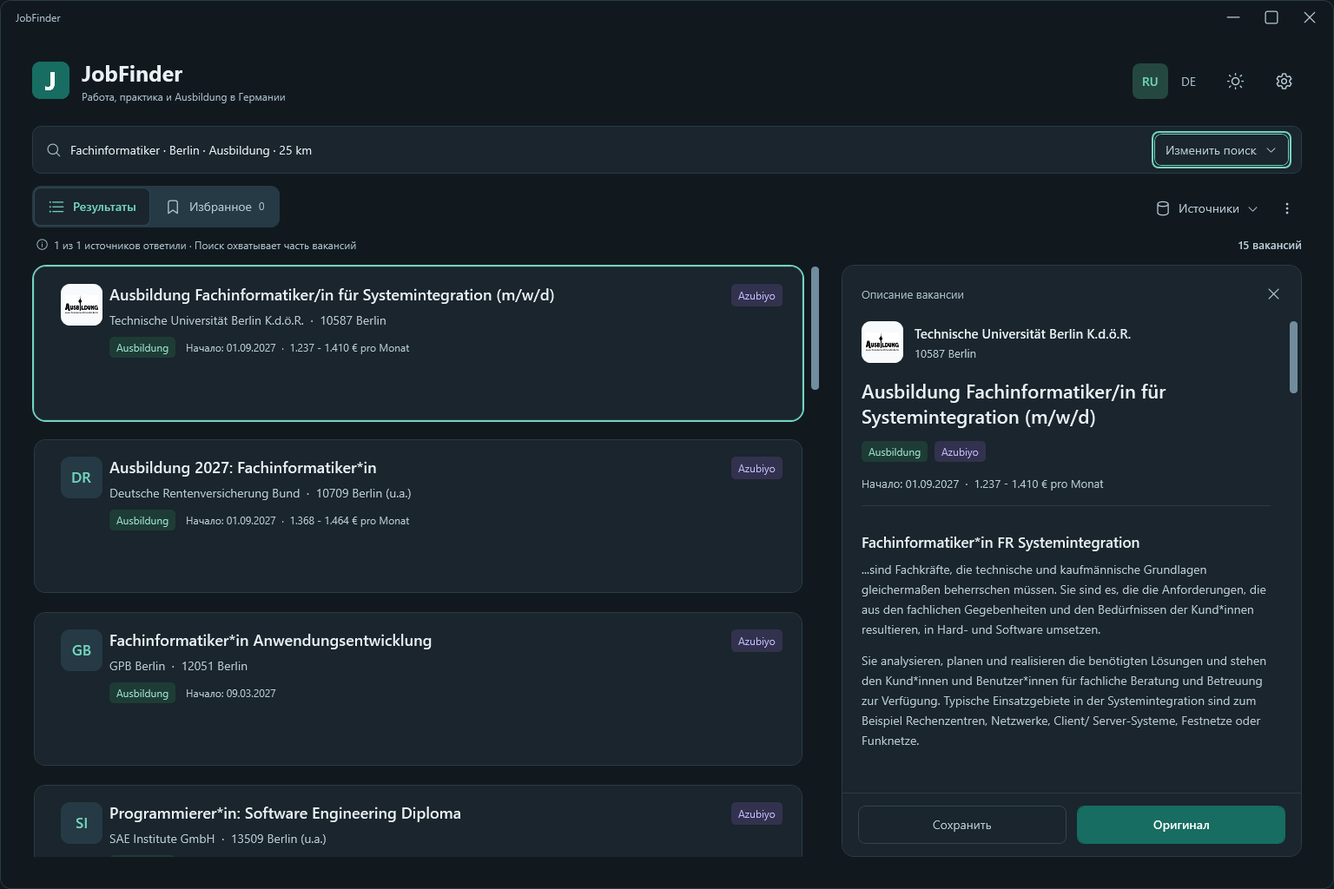
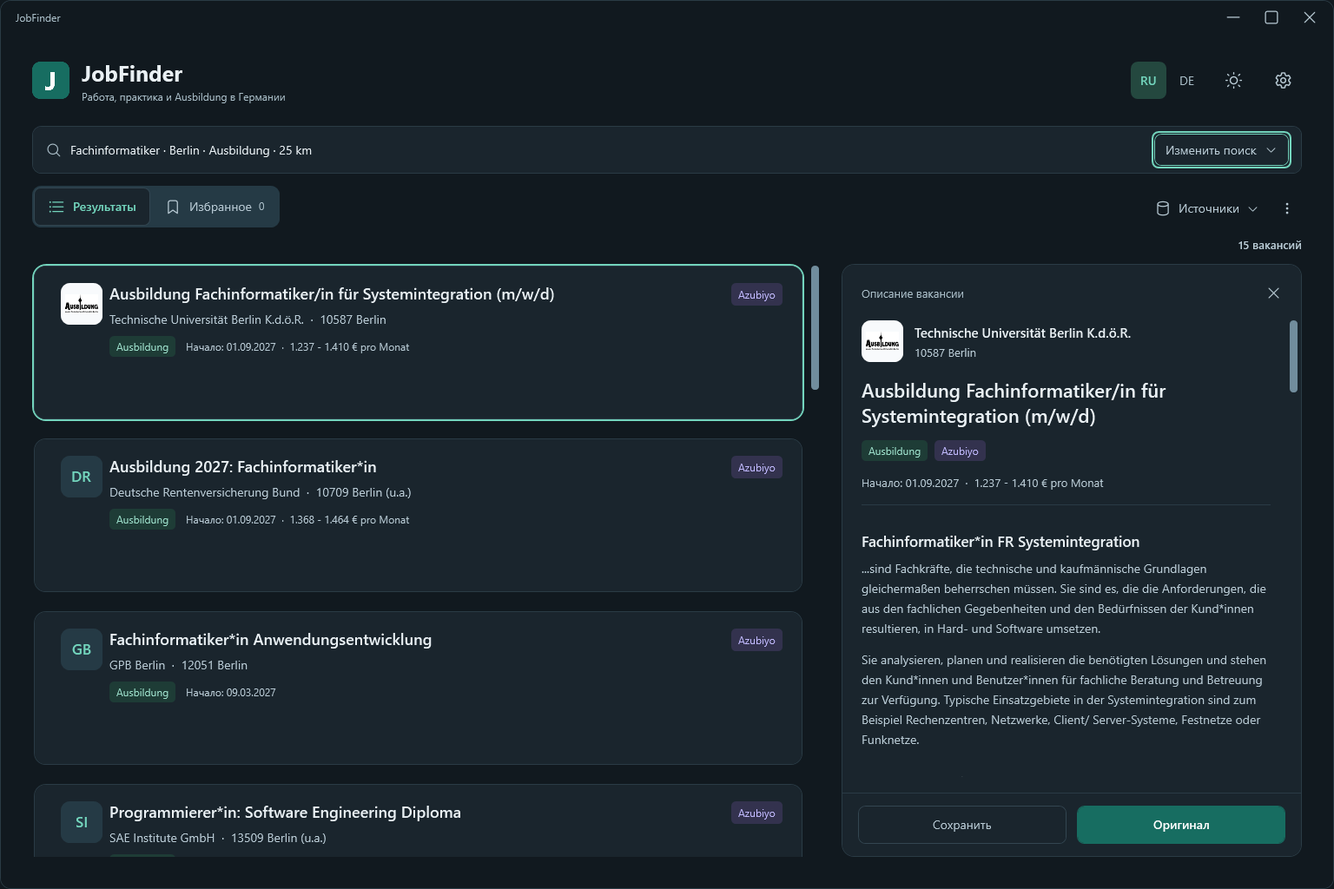
Move source warnings into settings with a yellow attention indicator

diff --git a/JobFinder/SourceDirectory.xaml b/JobFinder/SourceDirectory.xaml
@@ -1,16 +1,22 @@
 <UserControl x:Class="JobFinder.SourceDirectory" xmlns="http://schemas.microsoft.com/winfx/2006/xaml/presentation" xmlns:x="http://schemas.microsoft.com/winfx/2006/xaml" xmlns:local="clr-namespace:JobFinder">
  <Grid Margin="22"><Grid.RowDefinitions><RowDefinition Height="Auto"/><RowDefinition Height="*"/><RowDefinition Height="Auto"/></Grid.RowDefinitions>
-  <StackPanel>
+  <StackPanel Visibility="{Binding ShowCatalog, Converter={StaticResource Visible}}">
    <DockPanel Margin="0,0,0,14"><StackPanel DockPanel.Dock="Right" Margin="16,0,0,0"><TextBlock Text="{Binding Ui[Radius]}" FontSize="12" Margin="0,0,0,6"/><ComboBox x:Name="RadiusChoice" ItemsSource="{Binding App.Radii}" SelectedItem="{Binding App.Radius, Mode=TwoWay}" MinWidth="110"/></StackPanel><StackPanel><TextBlock Text="{Binding Ui[FindSource]}" FontSize="12" Margin="0,0,0,6"/><Grid><TextBox x:Name="SourceSearch" Text="{Binding Search, UpdateSourceTrigger=PropertyChanged}" Tag="{Binding Ui[SourceSearchPlaceholder]}" Padding="36,10,34,10" MaxLength="100" AutomationProperties.Name="{Binding Ui[FindSource]}"/><local:FluentIcon Kind="search" Foreground="{DynamicResource TextMuted}" Margin="11,0,0,0" HorizontalAlignment="Left" VerticalAlignment="Center"/><Button Click="ClearSearch" Style="{StaticResource Quiet}" Padding="6" HorizontalAlignment="Right" Margin="0,0,4,0" ToolTip="{Binding Ui[ClearSourceSearch]}" AutomationProperties.Name="{Binding Ui[ClearSourceSearch]}"><local:FluentIcon Kind="dismiss" Width="16" Height="16"/></Button></Grid></StackPanel></DockPanel>
    <WrapPanel Margin="0,0,0,8"><RadioButton Content="{Binding Ui[All]}" IsChecked="{Binding AllKinds}" GroupName="SourceKind" Style="{StaticResource Segment}"/><RadioButton Content="{Binding Ui[Job]}" IsChecked="{Binding Work}" GroupName="SourceKind" Style="{StaticResource Segment}"/><RadioButton Content="{Binding Ui[InternshipShort]}" IsChecked="{Binding Internship}" GroupName="SourceKind" Style="{StaticResource Segment}"/><RadioButton Content="{Binding Ui[Apprenticeship]}" IsChecked="{Binding Training}" GroupName="SourceKind" Style="{StaticResource Segment}"/></WrapPanel>
    <WrapPanel Margin="0,0,0,10"><RadioButton Content="{Binding Ui[AllSources]}" IsChecked="{Binding Both}" GroupName="SourceMode" Style="{StaticResource Segment}"/><RadioButton Content="{Binding Ui[FeedMode]}" IsChecked="{Binding FeedOnly}" GroupName="SourceMode" Style="{StaticResource Segment}"/><RadioButton Content="{Binding Ui[WebsiteMode]}" IsChecked="{Binding PortalOnly}" GroupName="SourceMode" Style="{StaticResource Segment}"/></WrapPanel>
    <TextBlock Text="{Binding Summary}" Foreground="{DynamicResource TextMuted}" FontSize="12" TextWrapping="Wrap" Margin="0,0,0,12"/>
   </StackPanel>
+  <StackPanel x:Name="StatusOverview" Visibility="{Binding IsStatusView, Converter={StaticResource Visible}}" Margin="0,0,0,18">
+   <TextBlock Text="{Binding App.SourceStatusTitle}" FontSize="20" FontWeight="SemiBold" Foreground="{Binding App.SourceTone}" TextWrapping="Wrap"/>
+   <TextBlock Text="{Binding App.SourceBrief}" Foreground="{DynamicResource TextBody}" FontSize="12" TextWrapping="Wrap" Margin="0,9,0,0" Visibility="{Binding App.HasSourceStatus, Converter={StaticResource Visible}}"/>
+   <TextBlock Text="{Binding Ui[FeedLimited]}" Foreground="{DynamicResource TextMuted}" FontSize="12" TextWrapping="Wrap" Margin="0,6,0,0" Visibility="{Binding App.HasSourceStatus, Converter={StaticResource Visible}}"/>
+   <TextBlock Text="{Binding Ui[SourceSettingsHint]}" Foreground="{DynamicResource WarningText}" FontSize="12" TextWrapping="Wrap" Margin="0,9,0,0" Visibility="{Binding App.HasSearchChanges, Converter={StaticResource Visible}}"/>
+  </StackPanel>
   <ScrollViewer x:Name="DirectoryScroll" Grid.Row="1" VerticalScrollBarVisibility="Auto" HorizontalScrollBarVisibility="Disabled"><StackPanel Margin="0,0,8,0">
-   <StackPanel Visibility="{Binding HasFeeds, Converter={StaticResource Visible}}"><WrapPanel Margin="0,2,0,8"><TextBlock Text="{Binding Ui[Sources]}" FontSize="17" FontWeight="SemiBold" Margin="0,4,18,0" ToolTip="{Binding Ui[SourcesHint]}"/><Button Content="{Binding Ui[EnableVisibleSources]}" Command="{Binding EnableVisible}" Style="{StaticResource Quiet}" FontSize="12"/><Button Content="{Binding Ui[DisableVisibleSources]}" Command="{Binding DisableVisible}" Style="{StaticResource Quiet}" FontSize="12" Margin="8,0,0,0"/></WrapPanel><ItemsControl x:Name="FeedList" ItemsSource="{Binding Feeds}"/></StackPanel>
+   <StackPanel Visibility="{Binding HasFeeds, Converter={StaticResource Visible}}"><WrapPanel Margin="0,2,0,8" Visibility="{Binding ShowCatalog, Converter={StaticResource Visible}}"><TextBlock Text="{Binding Ui[Sources]}" FontSize="17" FontWeight="SemiBold" Margin="0,4,18,0" ToolTip="{Binding Ui[SourcesHint]}"/><Button Content="{Binding Ui[EnableVisibleSources]}" Command="{Binding EnableVisible}" Style="{StaticResource Quiet}" FontSize="12"/><Button Content="{Binding Ui[DisableVisibleSources]}" Command="{Binding DisableVisible}" Style="{StaticResource Quiet}" FontSize="12" Margin="8,0,0,0"/></WrapPanel><ItemsControl x:Name="FeedList" ItemsSource="{Binding Feeds}"/></StackPanel>
    <StackPanel Visibility="{Binding HasPortals, Converter={StaticResource Visible}}"><TextBlock Text="{Binding Ui[WebsiteMode]}" FontSize="17" FontWeight="SemiBold" Margin="0,20,0,5"/><TextBlock Text="{Binding Ui[ExternalHint]}" Foreground="{DynamicResource TextMuted}" FontSize="12" TextWrapping="Wrap" Margin="0,0,0,7"/><ItemsControl ItemsSource="{Binding Portals}"><ItemsControl.ItemTemplate><DataTemplate><Border Padding="0,12" BorderBrush="{DynamicResource BorderSoft}" BorderThickness="0,0,0,1"><Grid><Grid.ColumnDefinitions><ColumnDefinition Width="*"/><ColumnDefinition Width="Auto"/></Grid.ColumnDefinitions><StackPanel Margin="0,0,14,0"><TextBlock Text="{Binding Name}" FontWeight="SemiBold"/><TextBlock Text="{Binding Categories}" Foreground="{DynamicResource Accent}" FontSize="12" Margin="0,4,0,0" TextWrapping="Wrap"/><TextBlock Text="{Binding Reason}" Foreground="{DynamicResource TextMuted}" FontSize="12" Margin="0,5,0,0" TextWrapping="Wrap"/></StackPanel><Button Grid.Column="1" Command="{Binding DataContext.PortalCommand, RelativeSource={RelativeSource AncestorType=Window}}" CommandParameter="{Binding Id}" ToolTip="{Binding DataContext.Ui[External], RelativeSource={RelativeSource AncestorType=Window}}" AutomationProperties.Name="{Binding Name}" Padding="10" VerticalAlignment="Center"><local:FluentIcon Kind="open"/></Button></Grid></Border></DataTemplate></ItemsControl.ItemTemplate></ItemsControl></StackPanel>
-   <TextBlock Text="{Binding Ui[NoSourceMatch]}" Foreground="{DynamicResource TextMuted}" FontSize="16" TextWrapping="Wrap" Margin="0,24,0,0" Visibility="{Binding Empty, Converter={StaticResource Visible}}"/>
+   <StackPanel Visibility="{Binding ShowCatalog, Converter={StaticResource Visible}}"><TextBlock Text="{Binding Ui[NoSourceMatch]}" Foreground="{DynamicResource TextMuted}" FontSize="16" TextWrapping="Wrap" Margin="0,24,0,0" Visibility="{Binding Empty, Converter={StaticResource Visible}}"/></StackPanel>
   </StackPanel></ScrollViewer>
-  <DockPanel Grid.Row="2" Margin="0,14,0,0"><Button DockPanel.Dock="Right" Content="{Binding Ui[Close]}" Click="CloseDialog" Padding="18,9" Margin="12,0,0,0"/><TextBlock Text="{Binding Ui[SourceSettingsHint]}" Foreground="{DynamicResource TextMuted}" FontSize="12" TextWrapping="Wrap" VerticalAlignment="Center"/></DockPanel>
+  <DockPanel Grid.Row="2" Margin="0,14,0,0"><Button x:Name="CloseButton" DockPanel.Dock="Right" Content="{Binding Ui[Close]}" Click="CloseDialog" Padding="18,9" Margin="12,0,0,0" IsCancel="True"/><TextBlock Text="{Binding Ui[SourceSettingsHint]}" Foreground="{DynamicResource TextMuted}" FontSize="12" TextWrapping="Wrap" VerticalAlignment="Center"/></DockPanel>
  </Grid>
 </UserControl>

diff --git a/JobFinder/MainWindow.xaml b/JobFinder/MainWindow.xaml
@@ -25,7 +25,7 @@
     <Button Content="RU" Command="{Binding LanguageCommand}" CommandParameter="ru" AutomationProperties.Name="Русский"><Button.Style><Style TargetType="Button" BasedOn="{StaticResource LanguageButton}"><Style.Triggers><DataTrigger Binding="{Binding Ui.IsRu}" Value="True"><Setter Property="Foreground" Value="{DynamicResource Accent}"/><Setter Property="FontWeight" Value="SemiBold"/><Setter Property="Background" Value="{DynamicResource Selected}"/></DataTrigger></Style.Triggers></Style></Button.Style></Button>
     <Button Content="DE" Command="{Binding LanguageCommand}" CommandParameter="de" AutomationProperties.Name="Deutsch"><Button.Style><Style TargetType="Button" BasedOn="{StaticResource LanguageButton}"><Style.Triggers><DataTrigger Binding="{Binding Ui.IsDe}" Value="True"><Setter Property="Foreground" Value="{DynamicResource Accent}"/><Setter Property="FontWeight" Value="SemiBold"/><Setter Property="Background" Value="{DynamicResource Selected}"/></DataTrigger></Style.Triggers></Style></Button.Style></Button>
     <Button x:Name="ThemeButton" Command="{Binding ThemeCommand}" Style="{StaticResource Quiet}" AutomationProperties.Name="{Binding ThemeLabel}" ToolTip="{Binding ThemeLabel}" Margin="12,0,0,0" Padding="9"><local:FluentIcon Kind="{Binding ThemeIcon}" Width="23" Height="23"/></Button>
-    <Button x:Name="SettingsButton" Click="OnAppMenu" Style="{StaticResource Quiet}" AutomationProperties.Name="{Binding Ui[MoreActions]}" ToolTip="{Binding Ui[MoreActions]}" Margin="15,0,0,0" Padding="9"><local:FluentIcon Kind="settings" Width="23" Height="23"/></Button>
+    <Button x:Name="SettingsButton" Click="OnAppMenu" Style="{StaticResource Quiet}" AutomationProperties.Name="{Binding SettingsLabel}" ToolTip="{Binding SettingsLabel}" Margin="15,0,0,0" Padding="9"><Grid Width="25" Height="25"><local:FluentIcon Kind="settings" Width="23" Height="23"/><Ellipse x:Name="SettingsWarning" Width="10" Height="10" Fill="{DynamicResource WarningDot}" Stroke="{DynamicResource AppBackground}" StrokeThickness="2" HorizontalAlignment="Right" VerticalAlignment="Top" Margin="0,-2,-3,0" IsHitTestVisible="False" Visibility="{Binding ShowSourceAttention, Converter={StaticResource Visible}}"/></Grid></Button>
    </StackPanel>
   </Grid>
   <Border x:Name="CompactSearchBar" Grid.Row="1" Background="{DynamicResource Surface}" BorderBrush="{DynamicResource BorderSoft}" BorderThickness="1" CornerRadius="10" Padding="14,8" Visibility="{Binding SearchCollapsed, Converter={StaticResource Visible}}">
@@ -70,12 +70,10 @@
     </StackPanel></Border>
    </DockPanel>
    <StackPanel x:Name="CoverageBand" Grid.Row="1" Margin="4,11,0,0">
-    <Grid><Grid.ColumnDefinitions><ColumnDefinition Width="*"/><ColumnDefinition Width="Auto"/></Grid.ColumnDefinitions><Grid.RowDefinitions><RowDefinition Height="Auto"/><RowDefinition Height="Auto"/></Grid.RowDefinitions>
+    <Grid><Grid.ColumnDefinitions><ColumnDefinition Width="*"/><ColumnDefinition Width="Auto"/></Grid.ColumnDefinitions>
      <TextBlock Grid.Column="1" Text="{Binding CountLabel}" FontWeight="SemiBold" FontSize="13" Foreground="{DynamicResource TextBody}"/>
      <TextBlock Text="{Binding ActiveLabel}" FontSize="12" Foreground="{DynamicResource TextMuted}" TextWrapping="Wrap" Margin="0,0,12,0"><TextBlock.Style><Style TargetType="TextBlock"><Style.Triggers><DataTrigger Binding="{Binding IsCompact}" Value="True"><Setter Property="Visibility" Value="Collapsed"/></DataTrigger><DataTrigger Binding="{Binding SearchCollapsed}" Value="True"><Setter Property="Visibility" Value="Collapsed"/></DataTrigger></Style.Triggers></Style></TextBlock.Style></TextBlock>
-     <Button Click="OnSources" Foreground="{Binding SourceTone}" ToolTip="{Binding Ui[FeedLimited]}" Visibility="{Binding ShowLimit, Converter={StaticResource Visible}}" HorizontalAlignment="Left" Margin="0,0,12,0"><Button.Style><Style TargetType="Button" BasedOn="{StaticResource Quiet}"><Setter Property="Grid.Row" Value="1"/><Setter Property="Padding" Value="0,5,0,0"/><Setter Property="MinHeight" Value="23"/><Style.Triggers><DataTrigger Binding="{Binding IsCompact}" Value="True"><Setter Property="Grid.Row" Value="0"/><Setter Property="Padding" Value="0"/><Setter Property="MinHeight" Value="18"/></DataTrigger><DataTrigger Binding="{Binding SearchCollapsed}" Value="True"><Setter Property="Grid.Row" Value="0"/><Setter Property="Padding" Value="0"/><Setter Property="MinHeight" Value="18"/></DataTrigger></Style.Triggers></Style></Button.Style><StackPanel Orientation="Horizontal"><local:FluentIcon Kind="info" Width="15" Height="15" Margin="0,0,6,0"/><TextBlock Text="{Binding SourceBrief}" FontSize="12" TextWrapping="Wrap"/></StackPanel></Button>
     </Grid>
-    <Border Background="{DynamicResource WarningBackground}" CornerRadius="7" Padding="10,6" Margin="0,7,0,0" Visibility="{Binding ShowSourceAttention, Converter={StaticResource Visible}}"><Button Click="OnSources" Style="{StaticResource Quiet}" HorizontalAlignment="Left" Padding="0" MinHeight="22" Foreground="{DynamicResource WarningText}"><TextBlock Text="{Binding SourceAttentionLabel}" TextWrapping="Wrap" FontSize="12"/></Button></Border>
    </StackPanel>
   </Grid>
   <Grid x:Name="FeedBody" Grid.Row="4">

diff --git a/JobFinder/Themes/Dark.xaml b/JobFinder/Themes/Dark.xaml
@@ -17,6 +17,7 @@
  <SolidColorBrush x:Key="ThumbHover" Color="#9FB6C3"/>
  <SolidColorBrush x:Key="WarningBackground" Color="#3B3020"/>
  <SolidColorBrush x:Key="WarningText" Color="#F2CA88"/>
+ <SolidColorBrush x:Key="WarningDot" Color="#F0B841"/>
  <SolidColorBrush x:Key="Error" Color="#FF9F9C"/>
  <SolidColorBrush x:Key="CloseHover" Color="#B53643"/>
  <SolidColorBrush x:Key="KindBackground" Color="#1E3C36"/>

diff --git a/JobFinder/Themes/Light.xaml b/JobFinder/Themes/Light.xaml
@@ -17,6 +17,7 @@
  <SolidColorBrush x:Key="ThumbHover" Color="#4D6877"/>
  <SolidColorBrush x:Key="WarningBackground" Color="#FFF3DD"/>
  <SolidColorBrush x:Key="WarningText" Color="#835B24"/>
+ <SolidColorBrush x:Key="WarningDot" Color="#C48716"/>
  <SolidColorBrush x:Key="Error" Color="#B73B38"/>
  <SolidColorBrush x:Key="CloseHover" Color="#C53C49"/>
  <SolidColorBrush x:Key="KindBackground" Color="#EAF5F1"/>

diff --git a/JobFinder/ViewModel.cs b/JobFinder/ViewModel.cs
@@ -41,11 +41,12 @@ public sealed class SourceView(IJobSource source, Ui ui) : Observable
     public int EmptyPages { get; set; }
     public bool ScanLimited { get; set; }
     public bool LimitedCoverage { get; set; }
+    public bool RetryingProblem { get; set; }
     public DateTimeOffset? RetryAt { get; set; }
     public bool HasError => State is "Network" or "Timeout" or "Access" or "RateLimit" or "Format" or "Input";
     public string Status => ui[ScanLimited ? "SourceScanLimit" : PaginationStopped ? "RepeatedPage" : State == "Input" && Id == "stellenanzeigen" ? "InputCity" : State == "Input" && Id == "handwerk" ? "InputPostcode" : State];
-    public bool NeedsAttention => HasError || ScanLimited || PaginationStopped;
-    public bool CanRetry => HasError && State != "Input" || ScanLimited;
+    public bool NeedsAttention => HasError || ScanLimited || PaginationStopped || RetryingProblem;
+    public bool CanRetry => HasError && State != "Input" || ScanLimited || RetryingProblem && State == "Cancelled";
     public string RetryLabel => ui[ScanLimited ? "ContinueSource" : "Retry"];
     public string Coverage => (Pages > 0 ? $"{Found} {ui["Found"]} · {Pages} {ui["Pages"]}" + (LimitedCoverage || Id == "arbeitnow" ? $"\n{ui["Inspected"]}: {Inspected}" : "") : "") + (LimitedCoverage ? $"\n{ui["LimitedSourceCoverage"]}" : "") + (RetryAt.HasValue ? $"\n{ui["Retry"]}: {RetryAt.Value.ToLocalTime():HH:mm}" : "");
     public Brush Tone => ThemeManager.Brush(HasError ? "WarningText" : State == "Loading" ? "Accent" : "TextMuted");
@@ -85,7 +86,7 @@ public sealed class JobView(JobListing job, ViewModel owner) : Observable
 public sealed class FeedStatusView(ViewModel owner) : Observable
 {
     public bool IsBusy => owner.IsBusy;
-    public string Label => owner.IsBusy ? owner.Ui["LoadingMore"] : owner.LoadingExplanation.Length > 0 ? owner.LoadingExplanation : owner.Ui[owner.HasPendingPages ? "ScrollForMore" : owner.Sources.Any(s => s.HasError) ? "Partial" : owner.Sources.Any(s => s.ScanLimited) ? "SourceScanLimit" : owner.Sources.Any(s => s.PaginationStopped) ? "RepeatedPage" : "AllLoaded"];
+    public string Label => owner.IsBusy ? owner.Ui["LoadingMore"] : owner.LoadingExplanation.Length > 0 ? owner.LoadingExplanation : owner.Ui[owner.HasPendingPages ? "ScrollForMore" : "AvailableLoaded"];
 }
 public sealed partial class ViewModel : Observable, IDisposable
 {
@@ -152,7 +153,7 @@ public sealed partial class ViewModel : Observable, IDisposable
     public bool ShowResults { get => !ShowFavorites; set { if (value) ShowFavorites = false; } }
     public int Sort { get => _sort; set { if (Set(ref _sort, value)) RefreshJobs(false); } }
     public string Notice { get => _notice; private set { Set(ref _notice, value); Changed(nameof(ShowNotice)); } }
-    public bool ShowNotice => Notice.Length > 0 && Notice != Ui["Complete"] && Notice != Ui["Ready"] && (!SearchCollapsed || Notice != Ui["Changed"] && Notice != Ui["SourcesChanged"]);
+    public bool ShowNotice => Notice.Length > 0 && Notice != Ui["Complete"] && Notice != Ui["Ready"] && Notice != Ui["Partial"] && (!SearchCollapsed || Notice != Ui["Changed"] && Notice != Ui["SourcesChanged"]);
     public string StorageNotice { get => _storageNotice; private set { Set(ref _storageNotice, value); Changed(nameof(HasStorageNotice)); } }
     public bool HasStorageNotice => StorageNotice.Length > 0;
     public int FavoriteCount => Profile.Favorites.Count;
@@ -162,15 +163,19 @@ public sealed partial class ViewModel : Observable, IDisposable
     {
         get
         {
-            var relevant = Sources.Where(x => x.State is not "Off" and not "Skipped" && x.Source.Supports(_active?.Kind ?? Kind)).ToList();
+            var relevant = Sources.Where(x => x.Enabled && x.State is not "Off" and not "Skipped" && x.Source.Supports(_active?.Kind ?? Kind)).ToList();
             int ok = relevant.Count(x => x.State is "Ok" or "Empty");
             return Ui.IsRu ? $"{ok} из {relevant.Count} источников ответили · Поиск охватывает часть вакансий" : $"{ok} von {relevant.Count} Quellen geladen · Auswahl verfügbarer Stellen";
         }
     }
-    public int SourceAttentionCount => Sources.Count(s => s.Enabled && s.NeedsAttention);
-    public bool ShowSourceAttention => ShowLimit && SourceAttentionCount > 0;
+    public bool HasSourceStatus => _hasSearched;
+    public int SourceAttentionCount => Sources.Count(s => s.Enabled && s.State is not "Off" and not "Skipped" && s.NeedsAttention);
+    public bool ShowSourceAttention => SourceAttentionCount > 0;
     public string SourceAttentionLabel => (Ui.IsRu ? $"Источники требуют внимания: {SourceAttentionCount}" : $"Quellen mit Hinweisen: {SourceAttentionCount}") + " · " + Ui["SourceStatusDetails"];
-    public Brush SourceTone => ThemeManager.Brush(Sources.Any(x => x.HasError) ? "WarningText" : "TextMuted");
+    public string SettingsLabel => Ui["Settings"] + (ShowSourceAttention ? " · " + string.Format(Ui["SourceAttentionSummary"], SourceAttentionCount) : "");
+    public string SourceStatusMenuLabel => Ui["SourceStatus"] + (ShowSourceAttention ? $" · {SourceAttentionCount}" : "");
+    public string SourceStatusTitle => !_hasSearched ? Ui["SourceStatusWaiting"] : ShowSourceAttention ? string.Format(Ui["SourceAttentionSummary"], SourceAttentionCount) : IsBusy ? Ui["Searching"] : !Sources.Any(s => s.Enabled && s.State is not "Off" and not "Skipped") ? Ui["NoSources"] : Sources.Any(s => s.Enabled && s.State == "Cancelled") ? Ui["Stopped"] : Ui["SourceStatusHealthy"];
+    public Brush SourceTone => ThemeManager.Brush(ShowSourceAttention ? "WarningText" : "TextMuted");
     private bool QueryUnchanged => _active is not null && new SearchQuery(Keyword, City, Radius, Kind).Clean() == _active;
     public bool HasPendingPages => Sources.Any(x => x.Next is not null && x.Enabled && x.Source.Supports(_active?.Kind ?? Kind) && !x.HasError && !x.ScanLimited && x.State != "Off" && x.State != "Skipped");
     public bool HasNext => !ShowFavorites && !IsBusy && !_autoPaused && !_settingsChanged && QueryUnchanged && Sources.Any(x => x.Next is not null && x.Enabled && !x.ScanLimited && x.State is "Ok" or "Empty");
@@ -257,11 +262,11 @@ public sealed partial class ViewModel : Observable, IDisposable
         {
             CloseDetails(); SelectedItem = null;
             _results.Clear(); _active = query; _hasSearched = true; _autoPaused = false; _settingsChanged = false; _activeSources = Sources.Where(s => s.Enabled).Select(s => s.Id).ToHashSet();
-            foreach (var s in Sources) { s.Found = 0; s.Inspected = 0; s.Pages = 0; s.EmptyPages = 0; s.ScanLimited = false; s.LimitedCoverage = false; s.Next = null; s.CompletedRequests.Clear(); s.PaginationStopped = false; s.RetryAt = null; s.State = !s.Enabled ? "Off" : !s.Source.Supports(query.Kind) ? "Skipped" : "Loading"; s.Refresh(); }
+            foreach (var s in Sources) { s.Found = 0; s.Inspected = 0; s.Pages = 0; s.EmptyPages = 0; s.ScanLimited = false; s.LimitedCoverage = false; s.RetryingProblem = false; s.Next = null; s.CompletedRequests.Clear(); s.PaginationStopped = false; s.RetryAt = null; s.State = !s.Enabled ? "Off" : !s.Source.Supports(query.Kind) ? "Skipped" : "Loading"; s.Refresh(); }
             SearchExpanded = false;
         }
         if (!more) { ShowFavorites = false; _autoPaused = false; }
-        if (retry is not null) { var source = selected[0]; source.ScanLimited = false; source.EmptyPages = 0; }
+        if (retry is not null) { var source = selected[0]; source.RetryingProblem = source.NeedsAttention; source.ScanLimited = false; source.EmptyPages = 0; }
         foreach (var s in selected) { s.State = "Loading"; s.RetryAt = null; s.Refresh(); }
         Profile.LastQuery = query; Save(); IsBusy = true; Notice = Ui["Searching"]; RefreshJobs(more || retry is not null); Changed(nameof(ActiveLabel));
         var requests = selected.ToDictionary(s => s.Id, s => (more || retry is not null) ? s.Next : null);
@@ -271,6 +276,7 @@ public sealed partial class ViewModel : Observable, IDisposable
             {
                 if (generation != _generation) return;
                 var s = Sources.First(x => x.Id == result.Id);
+                if (!result.Cancelled && !tokenSource.IsCancellationRequested) s.RetryingProblem = false;
                 if (result.Cancelled || tokenSource.IsCancellationRequested) s.State = "Cancelled";
                 else if (result.Failure is not null) { s.State = result.Failure.Kind.ToString(); s.RetryAt = result.Failure.RetryAt; }
                 else if (result.Page is not null)
@@ -292,7 +298,7 @@ public sealed partial class ViewModel : Observable, IDisposable
                 s.Refresh(); RefreshJobs();
             }), tokenSource.Token);
         }
-        catch (Exception e) when (e is not OutOfMemoryException) { if (generation == _generation) foreach (var s in selected.Where(s => s.State == "Loading")) { s.State = tokenSource.IsCancellationRequested ? "Cancelled" : "Network"; s.Refresh(); } }
+        catch (Exception e) when (e is not OutOfMemoryException) { if (generation == _generation) foreach (var s in selected.Where(s => s.State == "Loading")) { s.RetryingProblem = tokenSource.IsCancellationRequested && s.RetryingProblem; s.State = tokenSource.IsCancellationRequested ? "Cancelled" : "Network"; s.Refresh(); } }
         finally
         {
             if (generation == _generation)
@@ -367,7 +373,7 @@ public sealed partial class ViewModel : Observable, IDisposable
         if (!ShowFavorites && _hasSearched && VisibleJobs.Count > 0) desired.Add(_feedStatus);
         Synchronize(FeedItems, desired); _feedStatus.Refresh();
     }
-    private void RefreshState() { Changed(nameof(CountLabel)); Changed(nameof(Empty)); Changed(nameof(HasJobs)); Changed(nameof(ShowExamples)); Changed(nameof(ShowLimit)); Changed(nameof(EmptyTitle)); Changed(nameof(EmptyBody)); Changed(nameof(HasNext)); Changed(nameof(HasPendingPages)); Changed(nameof(CanResume)); Changed(nameof(AutoPaused)); Changed(nameof(LoadingExplanation)); Changed(nameof(ActiveLabel)); Changed(nameof(CompactSearchLabel)); Changed(nameof(HasSearchChanges)); Changed(nameof(SourceBrief)); Changed(nameof(SourceAttentionCount)); Changed(nameof(ShowSourceAttention)); Changed(nameof(SourceAttentionLabel)); Changed(nameof(SourceTone)); Changed(nameof(FilterLabel)); Changed(nameof(SearchLabel)); Changed(nameof(SearchIcon)); Changed(nameof(ThemeLabel)); RefreshFeed(); }
+    private void RefreshState() { Changed(nameof(CountLabel)); Changed(nameof(Empty)); Changed(nameof(HasJobs)); Changed(nameof(ShowExamples)); Changed(nameof(ShowLimit)); Changed(nameof(EmptyTitle)); Changed(nameof(EmptyBody)); Changed(nameof(HasNext)); Changed(nameof(HasPendingPages)); Changed(nameof(CanResume)); Changed(nameof(AutoPaused)); Changed(nameof(LoadingExplanation)); Changed(nameof(ActiveLabel)); Changed(nameof(CompactSearchLabel)); Changed(nameof(HasSearchChanges)); Changed(nameof(SourceBrief)); Changed(nameof(SourceAttentionCount)); Changed(nameof(ShowSourceAttention)); Changed(nameof(SourceAttentionLabel)); Changed(nameof(SourceTone)); Changed(nameof(HasSourceStatus)); Changed(nameof(SettingsLabel)); Changed(nameof(SourceStatusMenuLabel)); Changed(nameof(SourceStatusTitle)); Changed(nameof(FilterLabel)); Changed(nameof(SearchLabel)); Changed(nameof(SearchIcon)); Changed(nameof(ThemeLabel)); RefreshFeed(); }
     public void Open(string url)
     {
         try { if (!Links.IsSafe(url)) throw new ArgumentException(); System.Diagnostics.Process.Start(new System.Diagnostics.ProcessStartInfo(url) { UseShellExecute = true }); }

diff --git a/JobFinder/SourceStatusVerification.cs b/JobFinder/SourceStatusVerification.cs
@@ -1,0 +1,92 @@
+using JobFinder.Core;
+using System.IO;
+using System.Windows;
+using System.Windows.Automation;
+using System.Windows.Controls;
+
+namespace JobFinder;
+
+public partial class App
+{
+    private static async Task VerifySourceStatusAsync(string output, string fixtures, string isolated, Action<bool, string> check)
+    {
+        var captured = AzubiyoSource.Parse(File.ReadAllText(Path.Combine(fixtures, "azubiyo-filtered.txt")), new("https://www.azubiyo.de/ausbildung/berlin/"));
+        var recovery = new StatusRecoverySource();
+        var logos = new CompanyLogoService(Path.Combine(isolated, "status-logos"), false);
+        logos.Seed(captured.Jobs[0].LogoUrl, File.ReadAllBytes(Path.Combine(fixtures, "logo-azubiyo.png")));
+        var vm = new ViewModel(Path.Combine(isolated, "source-status-profile"), testSources: [new FixtureSource("azubiyo", "Azubiyo", JobKind.Apprenticeship, () => captured with { Limited = true }), recovery], detailService: new CapturedDetailService(File.ReadAllText(Path.Combine(fixtures, "azubiyo-tu-detail.txt"))), logos: logos);
+        var window = TestWindow(vm); window.AutoLoadEnabled = false;
+        check(!window.SettingsWarning.IsVisible && vm.SourceStatusTitle == vm.Ui["SourceStatusWaiting"], "Settings does not claim a failure or successful source check before a search");
+        var waiting = window.CreateSourcesDialog(statusView: true); waiting.WindowStartupLocation = WindowStartupLocation.Manual; waiting.Left = -15000; waiting.Top = -15000; waiting.ShowActivated = false; waiting.ShowInTaskbar = false; waiting.Show(); await SettleAsync();
+        check(((SourceDirectory)waiting.Content).StatusOverview.IsVisible && ((SourceDirectory)waiting.Content).Model.Feeds.Count == 0, "Source status settings has an honest pre-search state"); waiting.Close();
+        vm.ApplyQuery(new("Fachinformatiker", "Berlin", 25, JobKind.Apprenticeship)); await vm.SearchAsync(); await SettleAsync();
+        window.JobList.SelectedItem = vm.VisibleJobs[0]; await vm.DetailTask; await SettleAsync();
+        check(window.SettingsWarning.IsVisible && vm.SourceAttentionCount == 1 && AutomationProperties.GetName(window.SettingsButton).Contains("1"), "A real failed source request lights the settings dot and exposes the issue count to accessibility");
+        check(!vm.ShowNotice && !VisualChildren<TextBlock>(window.CoverageBand).Any(text => text.Text == vm.SourceBrief || text.Text == vm.SourceAttentionLabel), "Partial-source warnings and coverage no longer occupy the vacancy feed");
+        check(window.SettingsButton.IsTabStop && !window.SettingsWarning.IsHitTestVisible && ReferenceEquals(window.SettingsWarning.Fill, ThemeManager.Brush("WarningDot")), "The yellow indicator preserves keyboard access and the settings click target");
+        var menu = window.CreateAppMenu();
+        check(menu.Items.OfType<MenuItem>().Any(item => Equals(item.Tag, "source-status")), "Settings provides a dedicated source-status action");
+        await RenderAsync(window, Path.Combine(output, "JobFinder-052-settings-dot-dark.png"), 1536, 1024);
+        vm.ShowFavorites = true; await SettleAsync();
+        check(window.SettingsWarning.IsVisible, "An unresolved source issue remains visible while viewing favorites"); vm.ShowResults = true;
+        var dialog = window.CreateSourcesDialog(statusView: true); dialog.WindowStartupLocation = WindowStartupLocation.Manual; dialog.Left = -15000; dialog.Top = -15000; dialog.ShowActivated = false; dialog.ShowInTaskbar = false; dialog.Show(); await SettleAsync();
+        var directory = (SourceDirectory)dialog.Content;
+        check(directory.Model.IsStatusView && directory.StatusOverview.IsVisible && !directory.SourceSearch.IsVisible && !directory.RadiusChoice.IsVisible && directory.Model.Feeds[0].Id == recovery.Id, "Status settings gives space to source details and puts issues first");
+        check(VisualChildren<TextBlock>(directory).Any(text => text.IsVisible && text.Text == vm.SourceBrief) && VisualChildren<TextBlock>(directory).Any(text => text.Text == vm.Ui["Network"]), "Settings retains the original source response summary and a concrete failure reason");
+        var problem = vm.Sources.Single(source => source.Id == recovery.Id);
+        var retry = VisualChildren<Button>(directory).Single(button => ReferenceEquals(button.Command, vm.RetryCommand) && Equals(button.CommandParameter, problem));
+        check(retry.IsVisible && retry.Command!.CanExecute(retry.CommandParameter), "A failed source can be retried directly from status settings");
+        await RenderAsync(dialog, Path.Combine(output, "JobFinder-052-source-status-dark.png"), 760, 720);
+        vm.SetTheme("light"); vm.LanguageCommand.Execute("de"); await SettleAsync();
+        await RenderAsync(dialog, Path.Combine(output, "JobFinder-052-source-status-light-de.png"), 660, 620);
+        check(dialog.Title == "Quellenstatus" && vm.SettingsLabel.Contains("Quellen") && directory.DirectoryScroll.ViewportHeight > 200 && directory.CloseButton.IsVisible, "German narrow status settings keeps localized text and usable scrolling in the light theme");
+        vm.LanguageCommand.Execute("ru"); vm.SetTheme("dark"); await SettleAsync();
+        var selected = vm.SelectedJob;
+        recovery.Fail = false; recovery.Gate = new(); retry.Command!.Execute(retry.CommandParameter);
+        await UntilAsync(() => recovery.Calls == 2 && vm.IsBusy);
+        check(window.SettingsWarning.IsVisible && !vm.RetryCommand.CanExecute(problem), "The dot stays lit until a retry succeeds and duplicate retry is disabled during loading");
+        recovery.Gate.SetResult(); await UntilAsync(() => !vm.IsBusy); recovery.Gate = null;
+        check(!window.SettingsWarning.IsVisible && vm.SourceAttentionCount == 0 && vm.SourceStatusTitle == vm.Ui["SourceStatusHealthy"] && ReferenceEquals(vm.SelectedJob, selected), "Successful retry clears the settings dot while preserving loaded jobs and selection");
+        check(vm.Sources[0].LimitedCoverage && !vm.ShowSourceAttention, "Normal limited source coverage does not create a false problem indicator");
+        check(directory.Model.Feeds.All(source => !source.HasError) && VisualChildren<TextBlock>(directory.StatusOverview).Any(text => text.Text == vm.Ui["SourceStatusHealthy"]), "An open status page updates its source details and healthy summary after recovery");
+        await RenderAsync(window, Path.Combine(output, "JobFinder-052-settings-healthy.png"), 1536, 1024);
+        foreach (var failure in Enum.GetNames<FailureKind>())
+        {
+            problem.State = failure; problem.Refresh(); vm.Refresh(); await SettleAsync();
+            check(window.SettingsWarning.IsVisible, $"Settings signals an actionable {failure} source issue");
+        }
+        problem.RetryAt = DateTimeOffset.UtcNow.AddHours(1); problem.State = "RateLimit"; problem.Refresh(); vm.Refresh(); await SettleAsync();
+        check(!vm.RetryCommand.CanExecute(problem) && problem.Coverage.Contains(vm.Ui["Retry"]), "A source cooldown explains when to retry and disables premature requests"); problem.RetryAt = null;
+        vm.Keyword = "changed draft"; await SettleAsync();
+        check(window.SettingsWarning.IsVisible && !vm.RetryCommand.CanExecute(problem) && vm.HasSearchChanges, "Editing the search retains source issues and requires applying the changed query before retry"); vm.Keyword = "Fachinformatiker";
+        problem.Enabled = false; await SettleAsync();
+        check(!window.SettingsWarning.IsVisible && directory.Model.Feeds.All(source => source.Id != recovery.Id), "Disabling the failed source clears its attention indicator and updates the open status list"); problem.Enabled = true;
+        problem.State = "Ok"; problem.ScanLimited = true; problem.Refresh(); vm.Refresh(); await SettleAsync();
+        check(window.SettingsWarning.IsVisible && vm.RetryCommand.CanExecute(problem), "A source scan limit is discoverable and can be continued from settings"); problem.ScanLimited = false; problem.PaginationStopped = true; problem.Refresh(); vm.Refresh(); await SettleAsync();
+        check(window.SettingsWarning.IsVisible && problem.Status == vm.Ui["RepeatedPage"], "A repeated source page has a visible reason in settings without a feed banner"); problem.PaginationStopped = false;
+        problem.State = "Network"; problem.Refresh(); vm.Refresh(); recovery.Gate = new();
+        var cancelledRetry = vm.SearchAsync(retry: recovery.Id); await UntilAsync(() => vm.IsBusy); vm.Cancel(); await cancelledRetry; recovery.Gate = null; await SettleAsync();
+        check(window.SettingsWarning.IsVisible && problem.State == "Cancelled" && vm.RetryCommand.CanExecute(problem), "Cancelling recovery retains the unresolved issue and allows a later retry");
+        await vm.SearchAsync(retry: recovery.Id); await SettleAsync();
+        check(!window.SettingsWarning.IsVisible && !vm.AutoPaused, "A later successful retry recovers from cancellation and clears the dot");
+        dialog.Close(); window.Close();
+    }
+
+    private sealed class StatusRecoverySource : IJobSource
+    {
+        public string Id => "arbeitnow";
+        public string Name => "Arbeitnow";
+        public bool Fail { get; set; } = true;
+        public int Calls { get; private set; }
+        public TaskCompletionSource? Gate { get; set; }
+        public bool Supports(JobKind kind) => true;
+        public async Task<JobPage> SearchAsync(SearchQuery query, string? next, CancellationToken cancellation)
+        {
+            Calls++;
+            if (Gate is not null) await Gate.Task.WaitAsync(cancellation);
+            cancellation.ThrowIfCancellationRequested();
+            if (Fail) throw new SourceFailure(FailureKind.Network, "Controlled source connection failure");
+            return new([], null, 0);
+        }
+    }
+}

diff --git a/JobFinder/SourceDirectoryViewModel.cs b/JobFinder/SourceDirectoryViewModel.cs
@@ -17,6 +17,8 @@ public sealed class SourceDirectoryViewModel : Observable, IDisposable
 {
     public ViewModel App { get; }
     public Ui Ui => App.Ui;
+    public bool IsStatusView { get; }
+    public bool ShowCatalog => !IsStatusView;
     public ObservableCollection<SourceView> Feeds { get; } = [];
     public ObservableCollection<PortalView> Portals { get; } = [];
     private string _search = "";
@@ -38,9 +40,9 @@ public sealed class SourceDirectoryViewModel : Observable, IDisposable
     public string Summary => Ui.IsRu
         ? $"Выбрано для поиска: {App.Sources.Count(s => s.Enabled)} из {App.Sources.Count} · На сайте: {SourceCatalog.Sources.Count(s => !s.InFeed)} · Показано: {Feeds.Count + Portals.Count}"
         : $"Für Suche ausgewählt: {App.Sources.Count(s => s.Enabled)} von {App.Sources.Count} · Auf Website: {SourceCatalog.Sources.Count(s => !s.InFeed)} · Angezeigt: {Feeds.Count + Portals.Count}";
-    public SourceDirectoryViewModel(ViewModel app)
+    public SourceDirectoryViewModel(ViewModel app, bool statusView = false)
     {
-        App = app; App.PropertyChanged += AppChanged; Ui.PropertyChanged += LanguageChanged;
+        App = app; IsStatusView = statusView; App.PropertyChanged += AppChanged; Ui.PropertyChanged += LanguageChanged;
         foreach (var source in App.Sources) source.PropertyChanged += SourceChanged;
         EnableVisible = new(_ => { foreach (var source in Feeds.ToArray()) source.Enabled = true; }, _ => HasFeeds);
         DisableVisible = new(_ => { foreach (var source in Feeds.ToArray()) source.Enabled = false; }, _ => HasFeeds);
@@ -52,12 +54,18 @@ public sealed class SourceDirectoryViewModel : Observable, IDisposable
     {
         string term = Text.Normalize(Search);
         Feeds.Clear(); Portals.Clear();
+        if (IsStatusView)
+        {
+            if (App.HasSourceStatus) foreach (var source in App.Sources.Where(s => s.Enabled && s.State is not "Off" and not "Skipped").OrderByDescending(s => s.NeedsAttention).ThenBy(s => s.Name, StringComparer.CurrentCultureIgnoreCase)) Feeds.Add(source);
+            Changed(nameof(HasFeeds)); Changed(nameof(HasPortals)); Changed(nameof(Empty)); Changed(nameof(Summary));
+            return;
+        }
         if (_mode != 2) foreach (var source in App.Sources.Where(s => s.Source.Supports(_category) && Text.Normalize(s.Name + " " + s.Categories).Contains(term)).OrderBy(s => s.Name, StringComparer.CurrentCultureIgnoreCase)) Feeds.Add(source);
         if (_mode != 1) foreach (var source in SourceCatalog.Sources.Where(s => !s.InFeed && s.Supports(_category) && Text.Normalize(s.Name + " " + string.Join(" ", s.Kinds.Select(k => Ui[k.ToString()]))).Contains(term)).OrderBy(s => s.Name)) Portals.Add(new(source, Ui));
         Changed(nameof(HasFeeds)); Changed(nameof(HasPortals)); Changed(nameof(Empty)); Changed(nameof(Summary));
     }
     private void SourceChanged(object? sender, PropertyChangedEventArgs e) { if (e.PropertyName == nameof(SourceView.Enabled)) Changed(nameof(Summary)); }
-    private void AppChanged(object? sender, PropertyChangedEventArgs e) { if (e.PropertyName is nameof(ViewModel.SourceBrief) or "") Changed(nameof(Summary)); }
+    private void AppChanged(object? sender, PropertyChangedEventArgs e) { if (e.PropertyName is nameof(ViewModel.SourceBrief) or "") { if (IsStatusView) Filter(); else Changed(nameof(Summary)); } }
     private void LanguageChanged(object? sender, PropertyChangedEventArgs e) { if (e.PropertyName == nameof(Ui.IsRu)) Filter(); }
     public void Dispose() { App.PropertyChanged -= AppChanged; Ui.PropertyChanged -= LanguageChanged; foreach (var source in App.Sources) source.PropertyChanged -= SourceChanged; }
 }

diff --git a/JobFinder/MainWindow.xaml.cs b/JobFinder/MainWindow.xaml.cs
@@ -220,11 +220,13 @@ public partial class MainWindow : ThemedWindow
         panel.Children.Add(save); dialog.Content = new ScrollViewer { Content = panel, VerticalScrollBarVisibility = ScrollBarVisibility.Auto }; dialog.Loaded += (_, _) => title.Focus(); return dialog;
     }
     private void OnSources(object sender, RoutedEventArgs e) => CreateSourcesDialog().ShowDialog();
-    internal ThemedWindow CreateSourcesDialog()
+    private void OnSourceStatus(object sender, RoutedEventArgs e) => CreateSourcesDialog(statusView: true).ShowDialog();
+    internal ThemedWindow CreateSourcesDialog(bool statusView = false)
     {
-        var dialog = NewDialog(Vm.Ui["Filters"], 760, 800);
-        dialog.SetBinding(Window.TitleProperty, new System.Windows.Data.Binding("[Filters]") { Source = Vm.Ui });
-        dialog.Content = new SourceDirectory(Vm, (DataTemplate)FindResource("SourceTemplate"), (DataTemplate)FindResource("RadiusItem"));
+        string title = statusView ? "SourceStatus" : "Filters";
+        var dialog = NewDialog(Vm.Ui[title], 760, statusView ? 720 : 800);
+        dialog.SetBinding(Window.TitleProperty, new System.Windows.Data.Binding("[" + title + "]") { Source = Vm.Ui });
+        dialog.Content = new SourceDirectory(Vm, (DataTemplate)FindResource("SourceTemplate"), (DataTemplate)FindResource("RadiusItem"), statusView);
         return dialog;
     }
     private void OnAppMenu(object sender, RoutedEventArgs e)
@@ -233,7 +235,11 @@ public partial class MainWindow : ThemedWindow
     }
     internal ContextMenu CreateAppMenu()
     {
-        var menu = new ContextMenu(); var filters = new MenuItem { Header = Vm.Ui["Filters"] }; filters.Click += OnSources; menu.Items.Add(filters);
+        var menu = new ContextMenu();
+        var status = new MenuItem { Tag = "source-status" }; status.SetBinding(HeaderedItemsControl.HeaderProperty, new System.Windows.Data.Binding(nameof(ViewModel.SourceStatusMenuLabel)) { Source = Vm });
+        var dot = new System.Windows.Shapes.Ellipse { Width = 8, Height = 8 }; dot.SetResourceReference(System.Windows.Shapes.Shape.FillProperty, "WarningDot"); dot.SetBinding(VisibilityProperty, new System.Windows.Data.Binding(nameof(ViewModel.ShowSourceAttention)) { Source = Vm, Converter = (System.Windows.Data.IValueConverter)FindResource("Visible") }); status.Icon = dot;
+        status.Click += OnSourceStatus; menu.Items.Add(status); menu.Items.Add(new Separator());
+        var filters = new MenuItem { Header = Vm.Ui["Filters"] }; filters.Click += OnSources; menu.Items.Add(filters);
         var searches = new MenuItem { Header = Vm.Ui["SavedQueries"] }; searches.Click += OnSavedQueries; menu.Items.Add(searches);
         var about = new MenuItem { Header = Vm.Ui["About"] }; about.Click += OnAbout; menu.Items.Add(about);
         var add = new MenuItem { Header = Vm.Ui["AddLink"] }; add.Click += OnAddLink; menu.Items.Add(add);

diff --git a/JobFinder/Ui.cs b/JobFinder/Ui.cs
@@ -56,6 +56,12 @@ public sealed class Ui : INotifyPropertyChanged
         ["NoSourceMatch"] = ["По этим условиям сайтов не найдено. Измените название или фильтр.", "Keine passenden Portale. Suchtext oder Filter ändern."],
         ["SourceSettingsHint"] = ["Выбор сохраняется сразу. Изменения применятся при новом поиске.", "Auswahl wird sofort gespeichert. Änderungen gelten für eine neue Suche."],
         ["SourceStatusDetails"] = ["Статусы и повтор", "Status und erneut laden"],
+        ["Settings"] = ["Настройки", "Einstellungen"],
+        ["SourceStatus"] = ["Состояние источников", "Quellenstatus"],
+        ["SourceAttentionSummary"] = ["Источники требуют внимания: {0}", "Quellen mit Hinweisen: {0}"],
+        ["SourceStatusWaiting"] = ["Статусы появятся после первого поиска", "Status wird nach der ersten Suche angezeigt"],
+        ["SourceStatusHealthy"] = ["Все источники поиска ответили", "Alle Suchquellen haben geantwortet"],
+        ["AvailableLoaded"] = ["Доступные результаты загружены", "Verfügbare Ergebnisse geladen"],
         ["LimitedSourceCoverage"] = ["Охват зависит от загруженных страниц и возможностей источника.", "Abdeckung hängt von geladenen Seiten und Quellenfunktionen ab."],
         ["EditSearch"] = ["Изменить поиск", "Suche ändern"],
         ["EditSearchHint"] = ["Изменить условия поиска · Ctrl+F", "Suchfelder öffnen · Strg+F"],

diff --git a/JobFinder/SourceDirectory.xaml.cs b/JobFinder/SourceDirectory.xaml.cs
@@ -6,11 +6,11 @@ namespace JobFinder;
 public partial class SourceDirectory : UserControl
 {
     public SourceDirectoryViewModel Model { get; }
-    public SourceDirectory(ViewModel app, DataTemplate sourceTemplate, DataTemplate radiusTemplate)
+    public SourceDirectory(ViewModel app, DataTemplate sourceTemplate, DataTemplate radiusTemplate, bool statusView = false)
     {
-        InitializeComponent(); Model = new(app); DataContext = Model;
+        InitializeComponent(); Model = new(app, statusView); DataContext = Model;
         FeedList.ItemTemplate = sourceTemplate; RadiusChoice.ItemTemplate = radiusTemplate;
-        Loaded += (_, _) => SourceSearch.Focus(); Unloaded += (_, _) => Model.Dispose();
+        Loaded += (_, _) => { if (!Model.IsStatusView) SourceSearch.Focus(); else CloseButton.Focus(); }; Unloaded += (_, _) => Model.Dispose();
     }
     private void ClearSearch(object sender, RoutedEventArgs e) { Model.Search = ""; SourceSearch.Focus(); }
     private void CloseDialog(object sender, RoutedEventArgs e) => Window.GetWindow(this)?.Close();

diff --git a/JobFinder/CompactSearchVerification.cs b/JobFinder/CompactSearchVerification.cs
@@ -20,6 +20,7 @@ public partial class App
         check(window.SearchSurface.IsVisible && !window.CompactSearchBar.IsVisible, "Before a first search, the full search form is available");
         vm.ApplyQuery(new("Fachinformatiker", "Berlin", 25, JobKind.Apprenticeship)); await vm.SearchAsync(); await SettleAsync();
         check(!window.SearchSurface.IsVisible && window.EditSearchButton.IsVisible && window.ResultSourcesButton.IsVisible, "A new search collapses the form while editing and filters remain accessible");
+        check(!VisualChildren<TextBlock>(window.CoverageBand).Any(text => text.Text == vm.SourceBrief), "Source coverage belongs in settings instead of occupying the vacancy feed after a search");
         window.JobList.SelectedItem = vm.VisibleJobs[0]; await vm.DetailTask; await SettleAsync();
         await RenderAsync(window, Path.Combine(output, "JobFinder-031-compact-dark.png"), 1536, 1024);
         window.FeedScroll!.ScrollToVerticalOffset(180); window.DetailPane.Scroll.ScrollToVerticalOffset(160); await SettleAsync();

diff --git a/JobFinder/App.xaml.cs b/JobFinder/App.xaml.cs
@@ -179,6 +179,7 @@ public partial class App : Application
         await VerifyDetailsAsync(output, fixtures, isolated, Check);
         await VerifyCompactSearchAsync(output, fixtures, isolated, Check);
         await VerifySourceDirectoryAsync(output, isolated, Check);
+        await VerifySourceStatusAsync(output, fixtures, isolated, Check);
         await VerifyUpdateUiAsync(output, isolated, Check);
         await VerifyPaginationAsync(output, isolated, fixedSources[0], Check);
         // Delayed sources deliberately ignore cancellation to prove generation protection.
